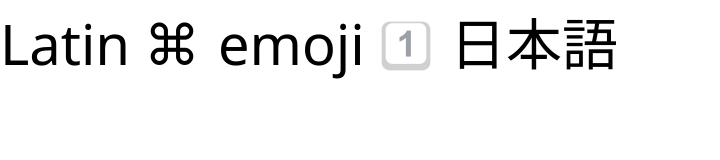
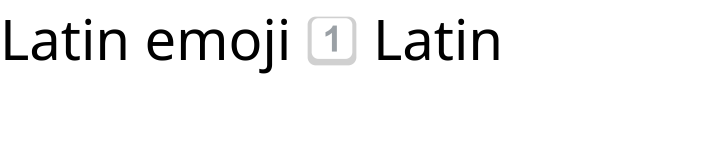
test: make rendering checks platform independent

Changed region(s): [[0.0, 0.0938, 0.8556, 0.5], [0.3667, 0.0938, 0.3972, 0.1562], [0.0, 0.125, 0.0306, 0.1562]]

diff --git a/internal/painter/font_test.go b/internal/painter/font_test.go
@@ -1,12 +1,15 @@
 package painter_test
 
 import (
+	"bytes"
 	"image"
 	"image/color"
 	"image/draw"
 	"testing"
 
+	"github.com/go-text/typesetting/font"
 	"github.com/stretchr/testify/assert"
+	"github.com/stretchr/testify/require"
 
 	fyne "github.com/alexballas/refyne/v2"
 	"github.com/alexballas/refyne/v2/canvas"
@@ -15,6 +18,26 @@ import (
 	"github.com/alexballas/refyne/v2/test"
 	"github.com/alexballas/refyne/v2/theme"
 )
+
+type mixedGoldenFontMap struct {
+	text, emoji *font.Face
+}
+
+func (m mixedGoldenFontMap) ResolveFace(r rune) *font.Face {
+	switch r {
+	case '1', '\uFE0F', '\u20E3':
+		return m.emoji
+	default:
+		return m.text
+	}
+}
+
+func loadGoldenFace(t *testing.T, resource fyne.Resource) *font.Face {
+	t.Helper()
+	face, err := font.ParseTTF(bytes.NewReader(resource.Content()))
+	require.NoError(t, err)
+	return face
+}
 
 func TestCachedFontFace(t *testing.T) {
 	for name, tt := range map[string]struct {
@@ -92,7 +115,10 @@ func TestDrawStringMixedFontsGoldens(t *testing.T) {
 	if theme.DefaultEmojiFont() == nil {
 		t.Skip("emoji font disabled")
 	}
-	faces := painter.CachedFontFace(fyne.TextStyle{}, nil, nil).Fonts
+	faces := mixedGoldenFontMap{
+		text:  loadGoldenFace(t, theme.DefaultTextFont()),
+		emoji: loadGoldenFace(t, theme.DefaultEmojiFont()),
+	}
 	for _, scale := range []struct {
 		name          string
 		value         float32
@@ -104,7 +130,7 @@ func TestDrawStringMixedFontsGoldens(t *testing.T) {
 		t.Run(scale.name, func(t *testing.T) {
 			img := image.NewNRGBA(image.Rect(0, 0, scale.width, scale.height))
 			draw.Draw(img, img.Bounds(), image.NewUniform(color.White), image.Point{}, draw.Src)
-			painter.DrawString(img, "Latin ⌘ emoji 1⃣ 日本語", color.Black, faces, 28, scale.value, fyne.TextStyle{})
+			painter.DrawString(img, "Latin emoji 1⃣ Latin", color.Black, faces, 28, scale.value, fyne.TextStyle{})
 			test.AssertImageMatches(t, "font/mixed_fonts_"+scale.name+".png", img)
 		})
 	}

diff --git a/tools/playground/playground_test.go b/tools/playground/playground_test.go
@@ -1,8 +1,10 @@
 package playground
 
 import (
+	"bytes"
 	"encoding/base64"
 	"image/color"
+	"image/png"
 	"testing"
 
 	fyne "github.com/alexballas/refyne/v2"
@@ -12,6 +14,7 @@ import (
 	"github.com/alexballas/refyne/v2/theme"
 
 	"github.com/stretchr/testify/assert"
+	"github.com/stretchr/testify/require"
 )
 
 func TestRender(t *testing.T) {
@@ -22,10 +25,16 @@ func TestRender(t *testing.T) {
 	assert.NotNil(t, img)
 
 	enc, err := encodeImage(img)
-	assert.NoError(t, err)
[1 lines of base64/hex data omitted]
+	require.NoError(t, err)
 
-	bytes, err := base64.StdEncoding.DecodeString(enc)
-	assert.NoError(t, err)
-	assert.Equal(t, "PNG", string(bytes)[1:4])
+	data, err := base64.StdEncoding.DecodeString(enc)
+	require.NoError(t, err)
+	decoded, err := png.Decode(bytes.NewReader(data))
+	require.NoError(t, err)
+	assert.Equal(t, img.Bounds(), decoded.Bounds())
+	for y := img.Bounds().Min.Y; y < img.Bounds().Max.Y; y++ {
+		for x := img.Bounds().Min.X; x < img.Bounds().Max.X; x++ {
+			assert.Equal(t, color.RGBAModel.Convert(img.At(x, y)), color.RGBAModel.Convert(decoded.At(x, y)))
+		}
+	}
 }
